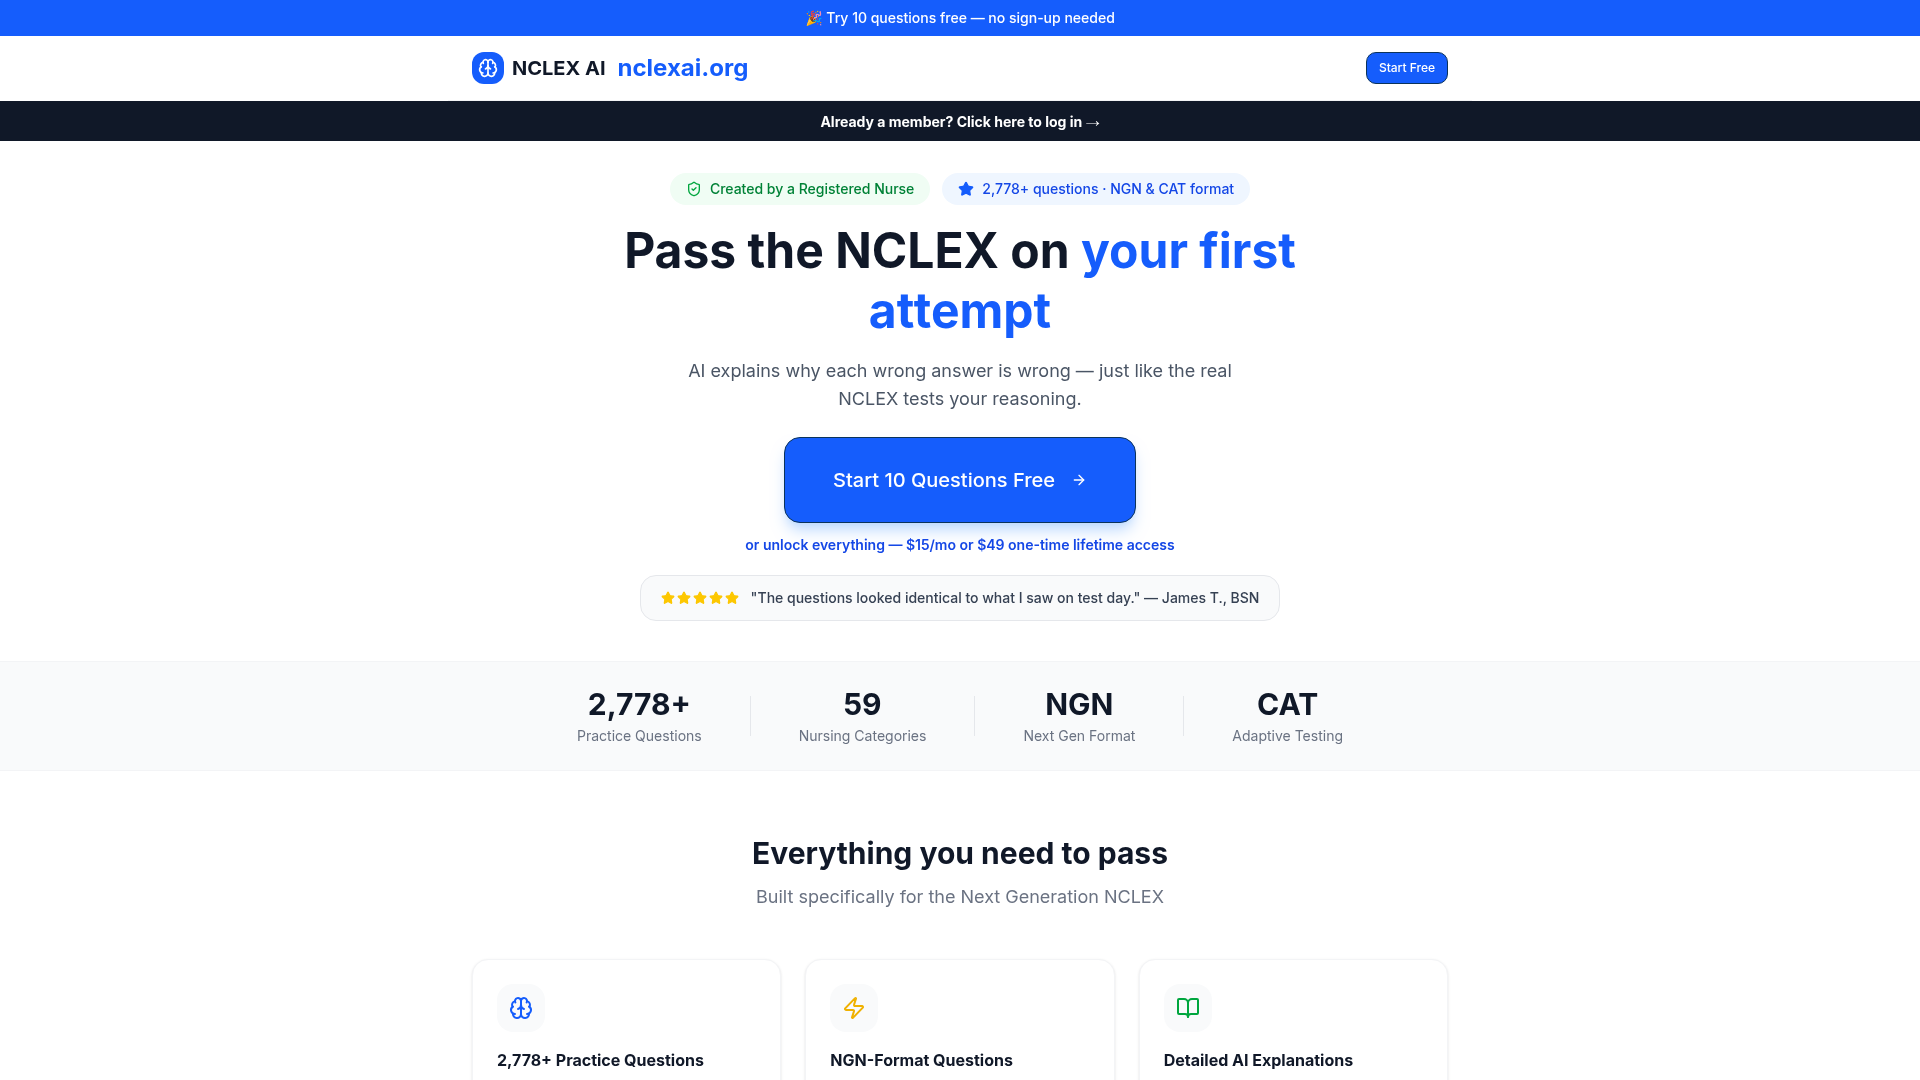
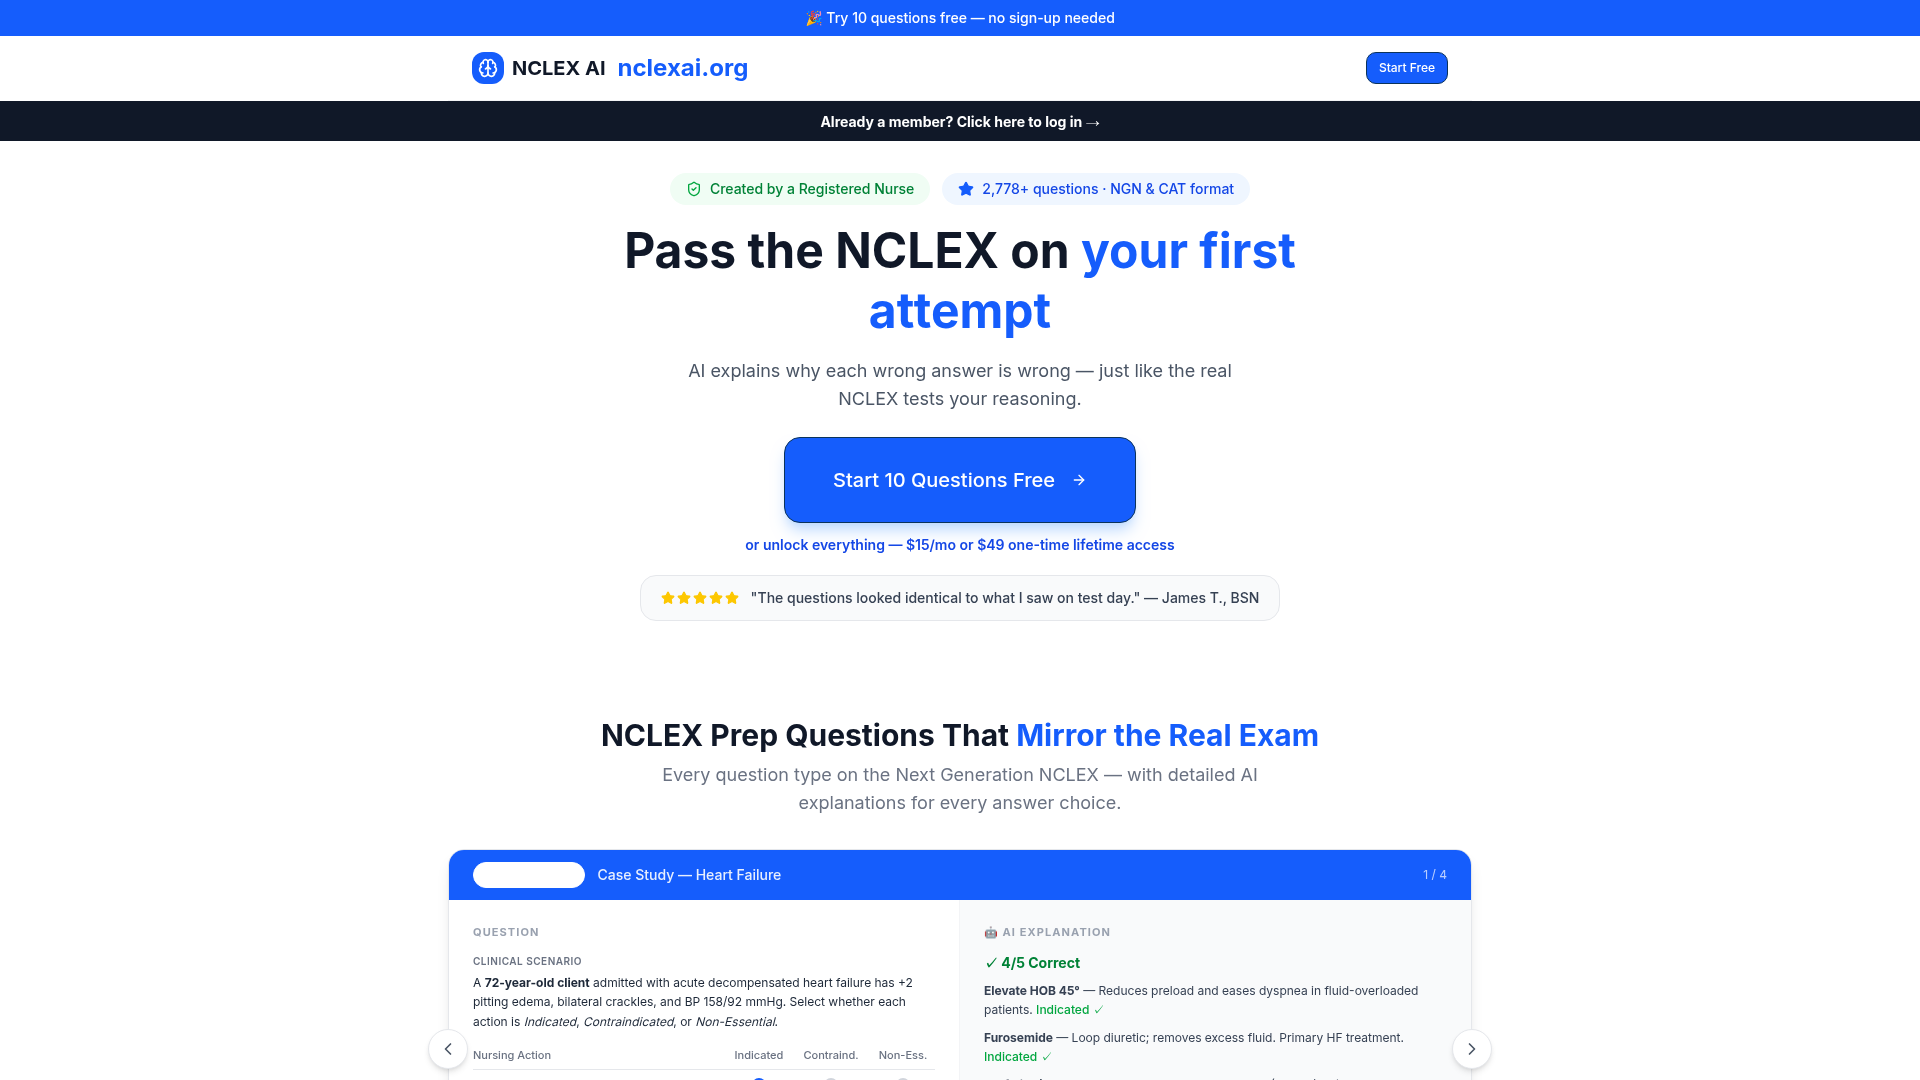
Improve interactive demo usability and mobile responsiveness
Refactor MatrixDemo and BowtieDemo components in landing.tsx to replace small radio buttons and table layouts with larger, more tappable card-style buttons, enhancing usability on mobile devices.

Replit-Commit-Author: Agent
Replit-Commit-Session-Id: 5fbe9f2e-c33d-42a1-ac20-66e041c2383e
Replit-Commit-Checkpoint-Type: full_checkpoint
Replit-Commit-Event-Id: 621033c4-0258-4056-853c-9fa98a9eb743
Replit-Commit-Screenshot-Url: https://storage.googleapis.com/screenshot-production-us-central1/6536a28a-761f-478a-b95d-a95c18a9d21e/5fbe9f2e-c33d-42a1-ac20-66e041c2383e/zPHF5lg
Replit-Helium-Checkpoint-Created: true

Changed region(s): [[0.2188, 0.6417, 0.7812, 1.0]]

diff --git a/artifacts/nclex-prep/src/pages/landing.tsx b/artifacts/nclex-prep/src/pages/landing.tsx
@@ -108,116 +108,103 @@ function MatrixDemo() {
   const [submitted, setSubmitted] = useState(false);
 
   const allSelected = matrixRows.every((_, i) => selections[i]);
+  const correctCount = submitted
+    ? matrixRows.filter((r, i) => selections[i] === r.correct).length
+    : 0;
 
   function select(rowIdx: number, col: string) {
     if (submitted) return;
     setSelections((prev) => ({ ...prev, [rowIdx]: col }));
   }
 
-  const correctCount = submitted
-    ? matrixRows.filter((r, i) => selections[i] === r.correct).length
-    : 0;
-
   return (
-    <div className="bg-white border border-gray-200 rounded-2xl overflow-hidden shadow-sm">
+    <div className="bg-white border border-gray-200 rounded-2xl shadow-sm">
       {/* Header */}
-      <div className="bg-blue-600 px-6 py-3 flex items-center gap-2">
+      <div className="bg-blue-600 px-6 py-3 flex items-center gap-2 rounded-t-2xl">
         <span className="bg-white text-blue-600 text-xs font-bold px-2 py-0.5 rounded">MATRIX / GRID</span>
         <span className="text-white text-xs font-medium">NGN Question Type</span>
       </div>
 
       {/* Scenario */}
-      <div className="px-6 pt-5 pb-3">
+      <div className="px-6 pt-5 pb-4">
         <p className="text-xs font-bold text-blue-700 uppercase tracking-wider mb-2">Clinical Scenario</p>
         <p className="text-sm text-gray-800 leading-relaxed">
           A nurse is caring for a <strong>72-year-old client</strong> admitted with <strong>acute decompensated heart failure</strong>.
-          The client has +2 pitting edema bilateral lower extremities, bilateral crackles on auscultation,
-          weight gain of 4 lbs in 2 days, and BP 158/92 mmHg.
+          The client has +2 pitting edema, bilateral crackles, weight gain of 4 lbs in 2 days, and BP 158/92 mmHg.
         </p>
         <p className="text-sm font-semibold text-gray-900 mt-3">
-          For each nursing action, select whether it is <em>Indicated</em>, <em>Contraindicated</em>, or <em>Non-Essential</em>.
+          For each nursing action below, tap <em>Indicated</em>, <em>Contraindicated</em>, or <em>Non-Essential</em>:
         </p>
       </div>
 
-      {/* Table */}
-      <div className="px-6 pb-2 overflow-x-auto">
-        <table className="w-full text-sm border-collapse">
-          <thead>
-            <tr className="border-b border-gray-200">
-              <th className="text-left py-2 pr-4 text-gray-600 font-semibold w-1/2">Nursing Action</th>
-              {matrixColumns.map((col) => (
-                <th key={col} className="text-center py-2 px-2 text-gray-600 font-semibold text-xs w-1/6">{col}</th>
-              ))}
-            </tr>
-          </thead>
-          <tbody>
-            {matrixRows.map((row, i) => {
-              const sel = selections[i];
-              const isCorrect = submitted && sel === row.correct;
-              const isWrong = submitted && sel && sel !== row.correct;
-              return (
-                <Fragment key={i}>
-                  <tr
-                    className={`border-b border-gray-100 transition-colors ${
-                      isCorrect ? "bg-green-50" : isWrong ? "bg-red-50" : "hover:bg-gray-50"
-                    }`}
-                  >
-                    <td className="py-3 pr-4 text-gray-800 leading-snug">
-                      <div className="flex items-start gap-2">
-                        {submitted && isCorrect && <CheckCircle className="w-4 h-4 text-green-500 flex-shrink-0 mt-0.5" />}
-                        {submitted && isWrong && <XCircle className="w-4 h-4 text-red-500 flex-shrink-0 mt-0.5" />}
-                        {row.action}
-                      </div>
-                    </td>
-                    {matrixColumns.map((col) => {
-                      const isSelected = sel === col;
-                      const isCorrectCell = submitted && col === row.correct;
-                      return (
-                        <td key={col} className="text-center py-3 px-2">
-                          <button
-                            onClick={() => select(i, col)}
-                            disabled={submitted}
-                            className={`w-5 h-5 rounded-full border-2 mx-auto flex items-center justify-center transition-all
-                              ${isCorrectCell && submitted
-                                ? "border-green-500 bg-green-500"
-                                : isSelected && !submitted
-                                ? "border-blue-600 bg-blue-600"
-                                : isSelected && submitted && !isCorrectCell
-                                ? "border-red-400 bg-red-400"
-                                : "border-gray-300 bg-white hover:border-blue-400"
-                              }`}
-                          >
-                            {(isSelected || (isCorrectCell && submitted)) && (
-                              <div className="w-2 h-2 rounded-full bg-white" />
-                            )}
-                          </button>
-                        </td>
-                      );
-                    })}
-                  </tr>
-                  {submitted && (
-                    <tr key={`rationale-${i}`} className={isCorrect ? "bg-green-50" : "bg-red-50"}>
-                      <td colSpan={4} className="pb-2 pt-0 px-4 pl-10">
-                        <p className={`text-xs italic ${isCorrect ? "text-green-700" : "text-red-700"}`}>
-                          <strong>Correct: {row.correct}.</strong> {row.rationale}
-                        </p>
-                      </td>
-                    </tr>
-                  )}
-                </Fragment>
-              );
-            })}
-          </tbody>
-        </table>
+      {/* Card-based rows — large tap targets, no table */}
+      <div className="px-6 pb-4 space-y-3">
+        {matrixRows.map((row, i) => {
+          const sel = selections[i];
+          const isCorrect = submitted && sel === row.correct;
+          const isWrong = submitted && sel && sel !== row.correct;
+          return (
+            <div
+              key={i}
+              className={`rounded-xl border p-4 transition-colors ${
+                isCorrect ? "border-green-300 bg-green-50"
+                : isWrong ? "border-red-300 bg-red-50"
+                : "border-gray-200 bg-gray-50"
+              }`}
+            >
+              {/* Action label */}
+              <div className="flex items-start gap-2 mb-3">
+                {submitted && isCorrect && <CheckCircle className="w-4 h-4 text-green-500 flex-shrink-0 mt-0.5" />}
+                {submitted && isWrong && <XCircle className="w-4 h-4 text-red-500 flex-shrink-0 mt-0.5" />}
+                <p className="text-sm font-medium text-gray-800">{row.action}</p>
+              </div>
+              {/* Big pill buttons */}
+              <div className="flex flex-wrap gap-2">
+                {matrixColumns.map((col) => {
+                  const isSelected = sel === col;
+                  const isCorrectCol = submitted && col === row.correct;
+                  return (
+                    <button
+                      key={col}
+                      type="button"
+                      onClick={() => select(i, col)}
+                      disabled={submitted}
+                      className={`px-4 py-2 rounded-lg text-sm font-semibold border-2 transition-all cursor-pointer
+                        ${isCorrectCol
+                          ? "border-green-500 bg-green-500 text-white"
+                          : isSelected && isWrong
+                          ? "border-red-400 bg-red-400 text-white"
+                          : isSelected
+                          ? "border-blue-600 bg-blue-600 text-white"
+                          : submitted
+                          ? "border-gray-200 bg-white text-gray-400"
+                          : "border-gray-300 bg-white text-gray-600 hover:border-blue-400 hover:text-blue-600"
+                        }`}
+                    >
+                      {col}
+                    </button>
+                  );
+                })}
+              </div>
+              {/* Rationale */}
+              {submitted && (
+                <p className={`text-xs mt-2 italic ${isCorrect ? "text-green-700" : "text-red-700"}`}>
+                  <strong>Correct: {row.correct}.</strong> {row.rationale}
+                </p>
+              )}
+            </div>
+          );
+        })}
       </div>
 
       {/* Footer */}
       <div className="px-6 py-4 border-t border-gray-100 flex items-center justify-between flex-wrap gap-3">
         {!submitted ? (
           <Button
+            type="button"
             onClick={() => setSubmitted(true)}
             disabled={!allSelected}
-            className="bg-blue-600 hover:bg-blue-700 text-white px-6"
+            className="bg-blue-600 hover:bg-blue-700 text-white px-6 disabled:opacity-50"
           >
             Check My Answers
           </Button>
@@ -234,7 +221,7 @@ function MatrixDemo() {
           </div>
         )}
         {!allSelected && !submitted && (
-          <span className="text-xs text-gray-400">Select an answer for each row</span>
+          <span className="text-xs text-gray-400">Select an answer for each row above</span>
         )}
       </div>
     </div>
@@ -320,16 +307,59 @@ function BowtieDemo() {
   const [submitted, setSubmitted] = useState(false);
 
   const allSelected = leftSel && centerSel && rightSel;
-
   const leftCorrect = submitted && bowtieLeft.find((o) => o.id === leftSel)?.correct;
   const centerCorrect = submitted && bowtieCenter.find((o) => o.id === centerSel)?.correct;
   const rightCorrect = submitted && bowtieRight.find((o) => o.id === rightSel)?.correct;
   const score = submitted ? [leftCorrect, centerCorrect, rightCorrect].filter(Boolean).length : 0;
 
+  function renderColumn(
+    title: string,
+    accent: string,
+    options: typeof bowtieLeft,
+    selected: string | null,
+    onSelect: (id: string) => void,
+  ) {
+    return (
+      <div className="flex-1 min-w-0">
+        <p className={`text-xs font-bold uppercase tracking-wider mb-2 ${accent}`}>{title}</p>
+        <div className="space-y-2">
+          {options.map((opt) => {
+            const isSelected = selected === opt.id;
+            const isCorrectOpt = submitted && opt.correct;
+            const isWrongOpt = submitted && isSelected && !opt.correct;
+            return (
+              <button
+                key={opt.id}
+                type="button"
+                onClick={() => !submitted && onSelect(opt.id)}
+                disabled={submitted}
+                className={`w-full text-left text-sm px-4 py-3 rounded-xl border-2 transition-all font-medium cursor-pointer
+                  ${isCorrectOpt
+                    ? "border-green-500 bg-green-50 text-green-800"
+                    : isWrongOpt
+                    ? "border-red-400 bg-red-50 text-red-800"
+                    : isSelected
+                    ? "border-blue-500 bg-blue-50 text-blue-800"
+                    : submitted
+                    ? "border-gray-200 bg-white text-gray-400"
+                    : "border-gray-200 bg-white text-gray-700 hover:border-blue-300 hover:bg-blue-50"
+                  }`}
+              >
+                <span className="font-bold mr-1">{opt.id}.</span> {opt.text}
+                {isCorrectOpt && <span className="ml-1 text-green-600">✓</span>}
+                {isWrongOpt && <span className="ml-1 text-red-500">✗</span>}
+              </button>
+            );
+          })}
+        </div>
+      </div>
+    );
+  }
+
   return (
-    <div className="bg-white border border-gray-200 rounded-2xl overflow-hidden shadow-sm">
+    <div className="bg-white border border-gray-200 rounded-2xl shadow-sm">
       {/* Header */}
-      <div className="bg-purple-600 px-6 py-3 flex items-center gap-2">
+      <div className="bg-purple-600 px-6 py-3 flex items-center gap-2 rounded-t-2xl">
         <span className="bg-white text-purple-600 text-xs font-bold px-2 py-0.5 rounded">BOW-TIE</span>
         <span className="text-white text-xs font-medium">NGN Question Type</span>
       </div>
@@ -343,55 +373,25 @@ function BowtieDemo() {
           Vital signs: BP 110/70, HR 102, RR 18, Temp 98.4°F, SpO₂ 98%.
         </p>
         <p className="text-sm font-semibold text-gray-900 mt-3">
-          Complete the Bow-Tie: select the most appropriate <em>Action</em>, identify the <em>Condition</em>, and choose the <em>Parameter to Monitor</em>.
+          Select one answer in each column — Action → Condition → Parameter to Monitor:
         </p>
       </div>
 
-      {/* Bowtie columns */}
-      <div className="px-6 pb-4 flex gap-3 items-start">
-        <BowtieColumn
-          title="Action to Take"
-          color="text-blue-600"
-          options={bowtieLeft}
-          selected={leftSel}
-          onSelect={setLeftSel}
-          submitted={submitted}
-        />
-
-        {/* Center diamond */}
-        <div className="flex flex-col items-center justify-start pt-6 flex-shrink-0 w-8">
-          <div className="w-0 h-0 border-l-[12px] border-l-transparent border-r-[12px] border-r-transparent border-b-[12px] border-b-gray-300" />
-          <div className="w-0 h-0 border-l-[12px] border-l-transparent border-r-[12px] border-r-transparent border-t-[12px] border-t-gray-300" />
-          <div className="h-4" />
-          <div className="w-0 h-0 border-l-[12px] border-l-transparent border-r-[12px] border-r-transparent border-b-[12px] border-b-gray-300" />
-          <div className="w-0 h-0 border-l-[12px] border-l-transparent border-r-[12px] border-r-transparent border-t-[12px] border-t-gray-300" />
+      {/* Three columns — stacks on mobile, side by side on desktop */}
+      <div className="px-6 pb-4">
+        <div className="flex flex-col sm:flex-row gap-4">
+          {renderColumn("Action to Take", "text-blue-600", bowtieLeft, leftSel, setLeftSel)}
+          <div className="hidden sm:flex flex-col items-center justify-center flex-shrink-0 gap-1 pt-6">
+            <div className="w-3 h-3 bg-gray-300 rotate-45" />
+            <div className="w-3 h-3 bg-gray-300 rotate-45" />
+          </div>
+          {renderColumn("Condition", "text-purple-600", bowtieCenter, centerSel, setCenterSel)}
+          <div className="hidden sm:flex flex-col items-center justify-center flex-shrink-0 gap-1 pt-6">
+            <div className="w-3 h-3 bg-gray-300 rotate-45" />
+            <div className="w-3 h-3 bg-gray-300 rotate-45" />
+          </div>
+          {renderColumn("Parameter to Monitor", "text-green-600", bowtieRight, rightSel, setRightSel)}
         </div>
-
-        <BowtieColumn
-          title="Condition"
-          color="text-purple-600"
-          options={bowtieCenter}
-          selected={centerSel}
-          onSelect={setCenterSel}
-          submitted={submitted}
-        />
-
-        <div className="flex flex-col items-center justify-start pt-6 flex-shrink-0 w-8">
-          <div className="w-0 h-0 border-l-[12px] border-l-transparent border-r-[12px] border-r-transparent border-b-[12px] border-b-gray-300" />
-          <div className="w-0 h-0 border-l-[12px] border-l-transparent border-r-[12px] border-r-transparent border-t-[12px] border-t-gray-300" />
-          <div className="h-4" />
-          <div className="w-0 h-0 border-l-[12px] border-l-transparent border-r-[12px] border-r-transparent border-b-[12px] border-b-gray-300" />
-          <div className="w-0 h-0 border-l-[12px] border-l-transparent border-r-[12px] border-r-transparent border-t-[12px] border-t-gray-300" />
-        </div>
-
-        <BowtieColumn
-          title="Parameter to Monitor"
-          color="text-green-600"
-          options={bowtieRight}
-          selected={rightSel}
-          onSelect={setRightSel}
-          submitted={submitted}
-        />
       </div>
 
       {/* AI Explanation */}
@@ -406,9 +406,10 @@ function BowtieDemo() {
       <div className="px-6 py-4 border-t border-gray-100 flex items-center justify-between flex-wrap gap-3">
         {!submitted ? (
           <Button
+            type="button"
             onClick={() => setSubmitted(true)}
             disabled={!allSelected}
-            className="bg-purple-600 hover:bg-purple-700 text-white px-6"
+            className="bg-purple-600 hover:bg-purple-700 text-white px-6 disabled:opacity-50"
           >
             Check My Answers
           </Button>
@@ -425,7 +426,7 @@ function BowtieDemo() {
           </div>
         )}
         {!allSelected && !submitted && (
-          <span className="text-xs text-gray-400">Select one from each column</span>
+          <span className="text-xs text-gray-400">Select one from each column above</span>
         )}
       </div>
     </div>
